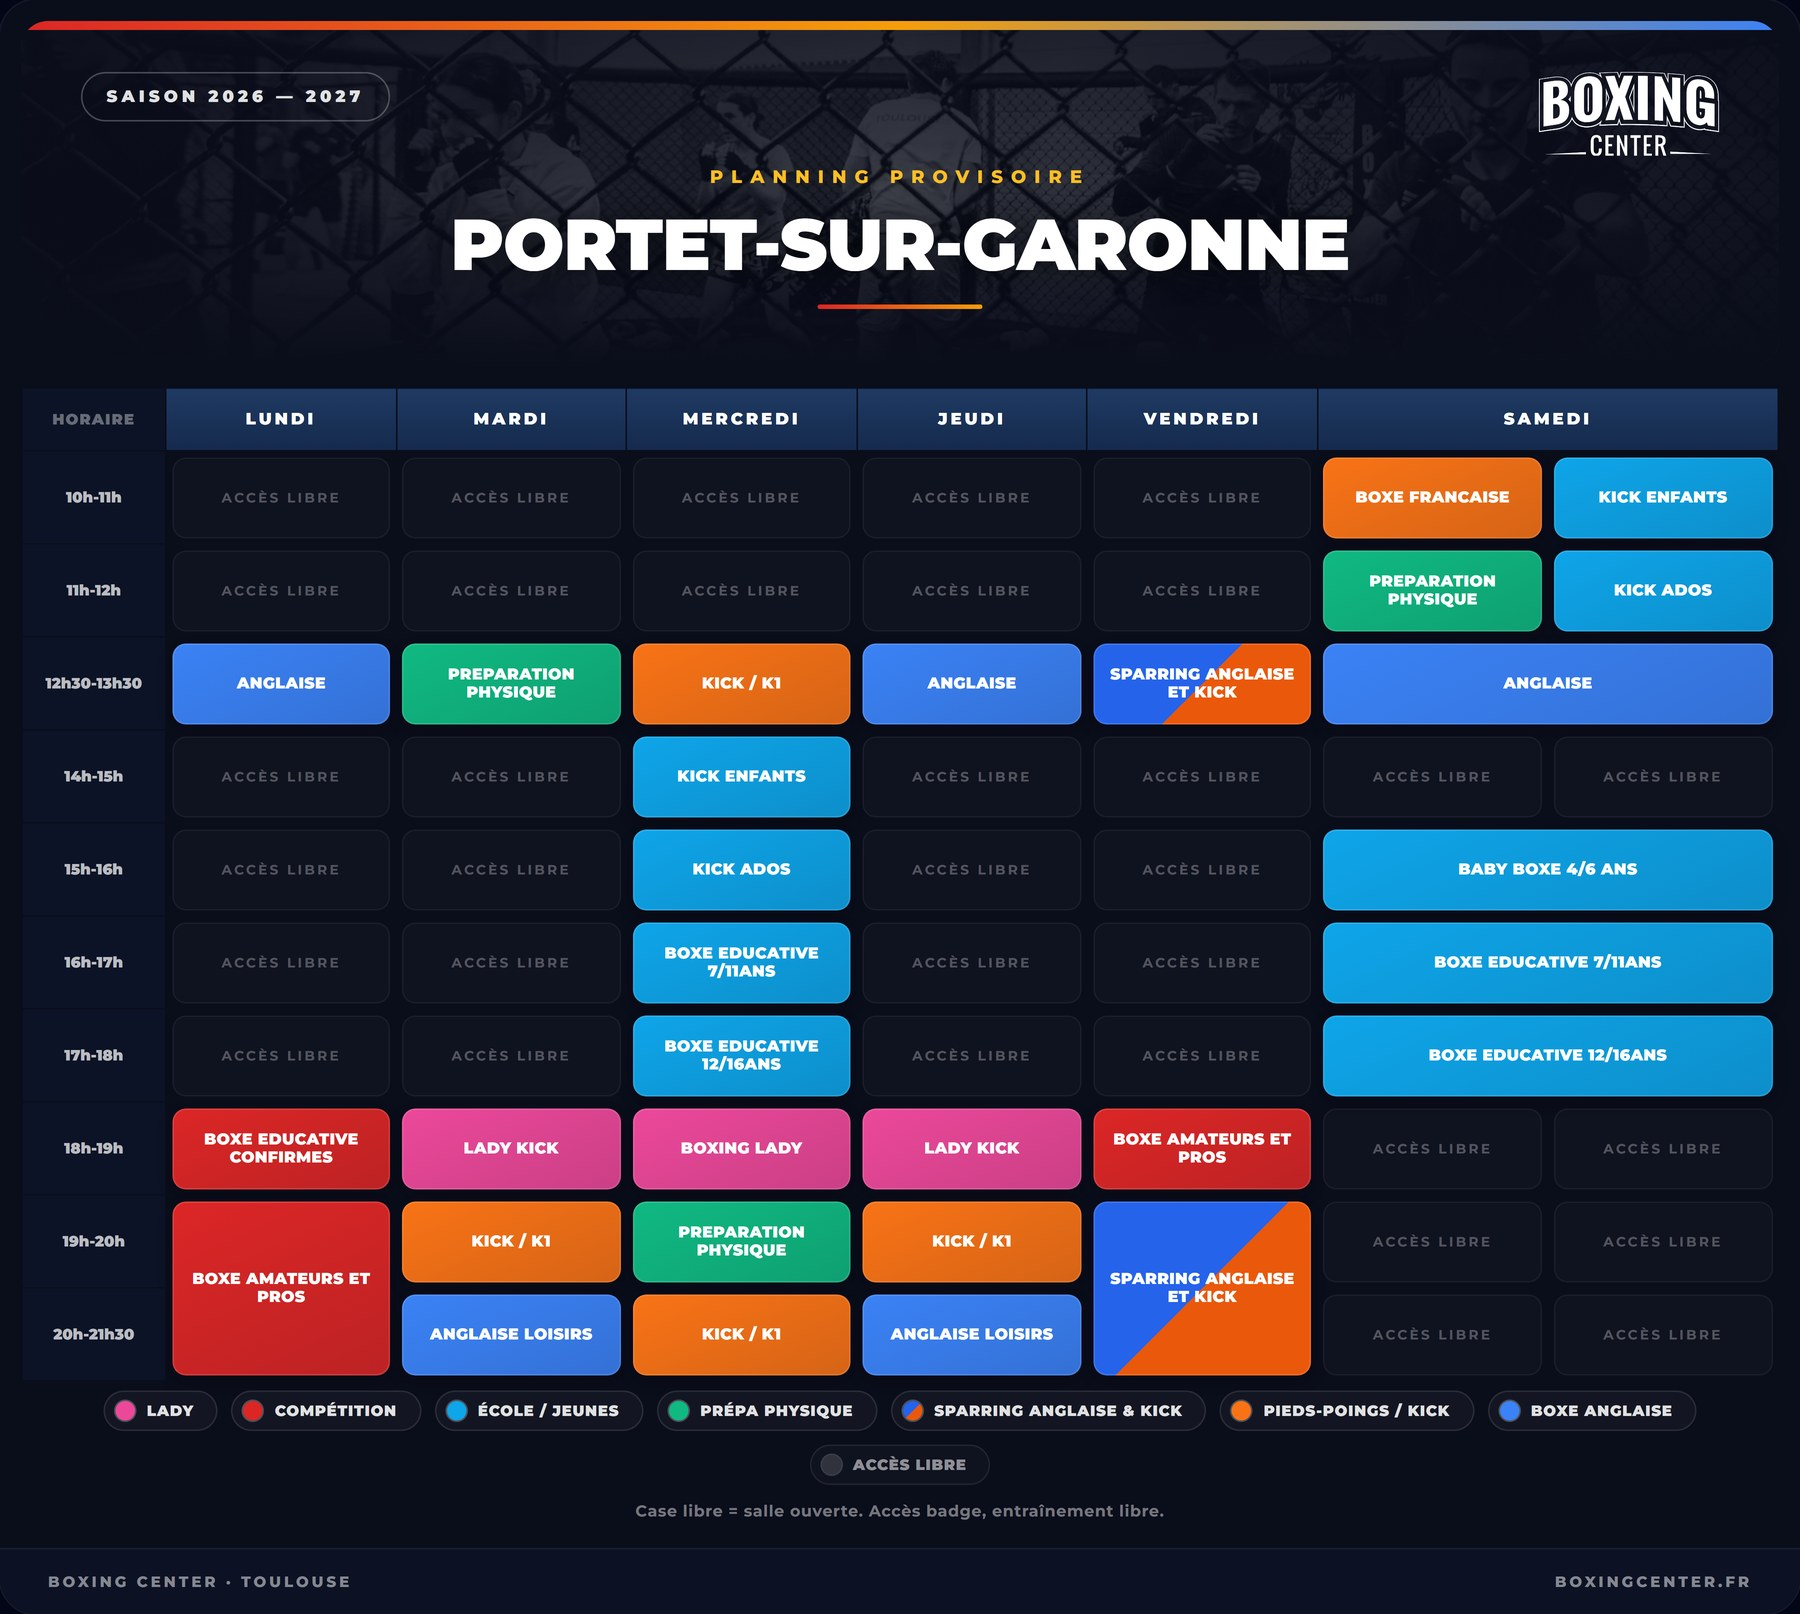
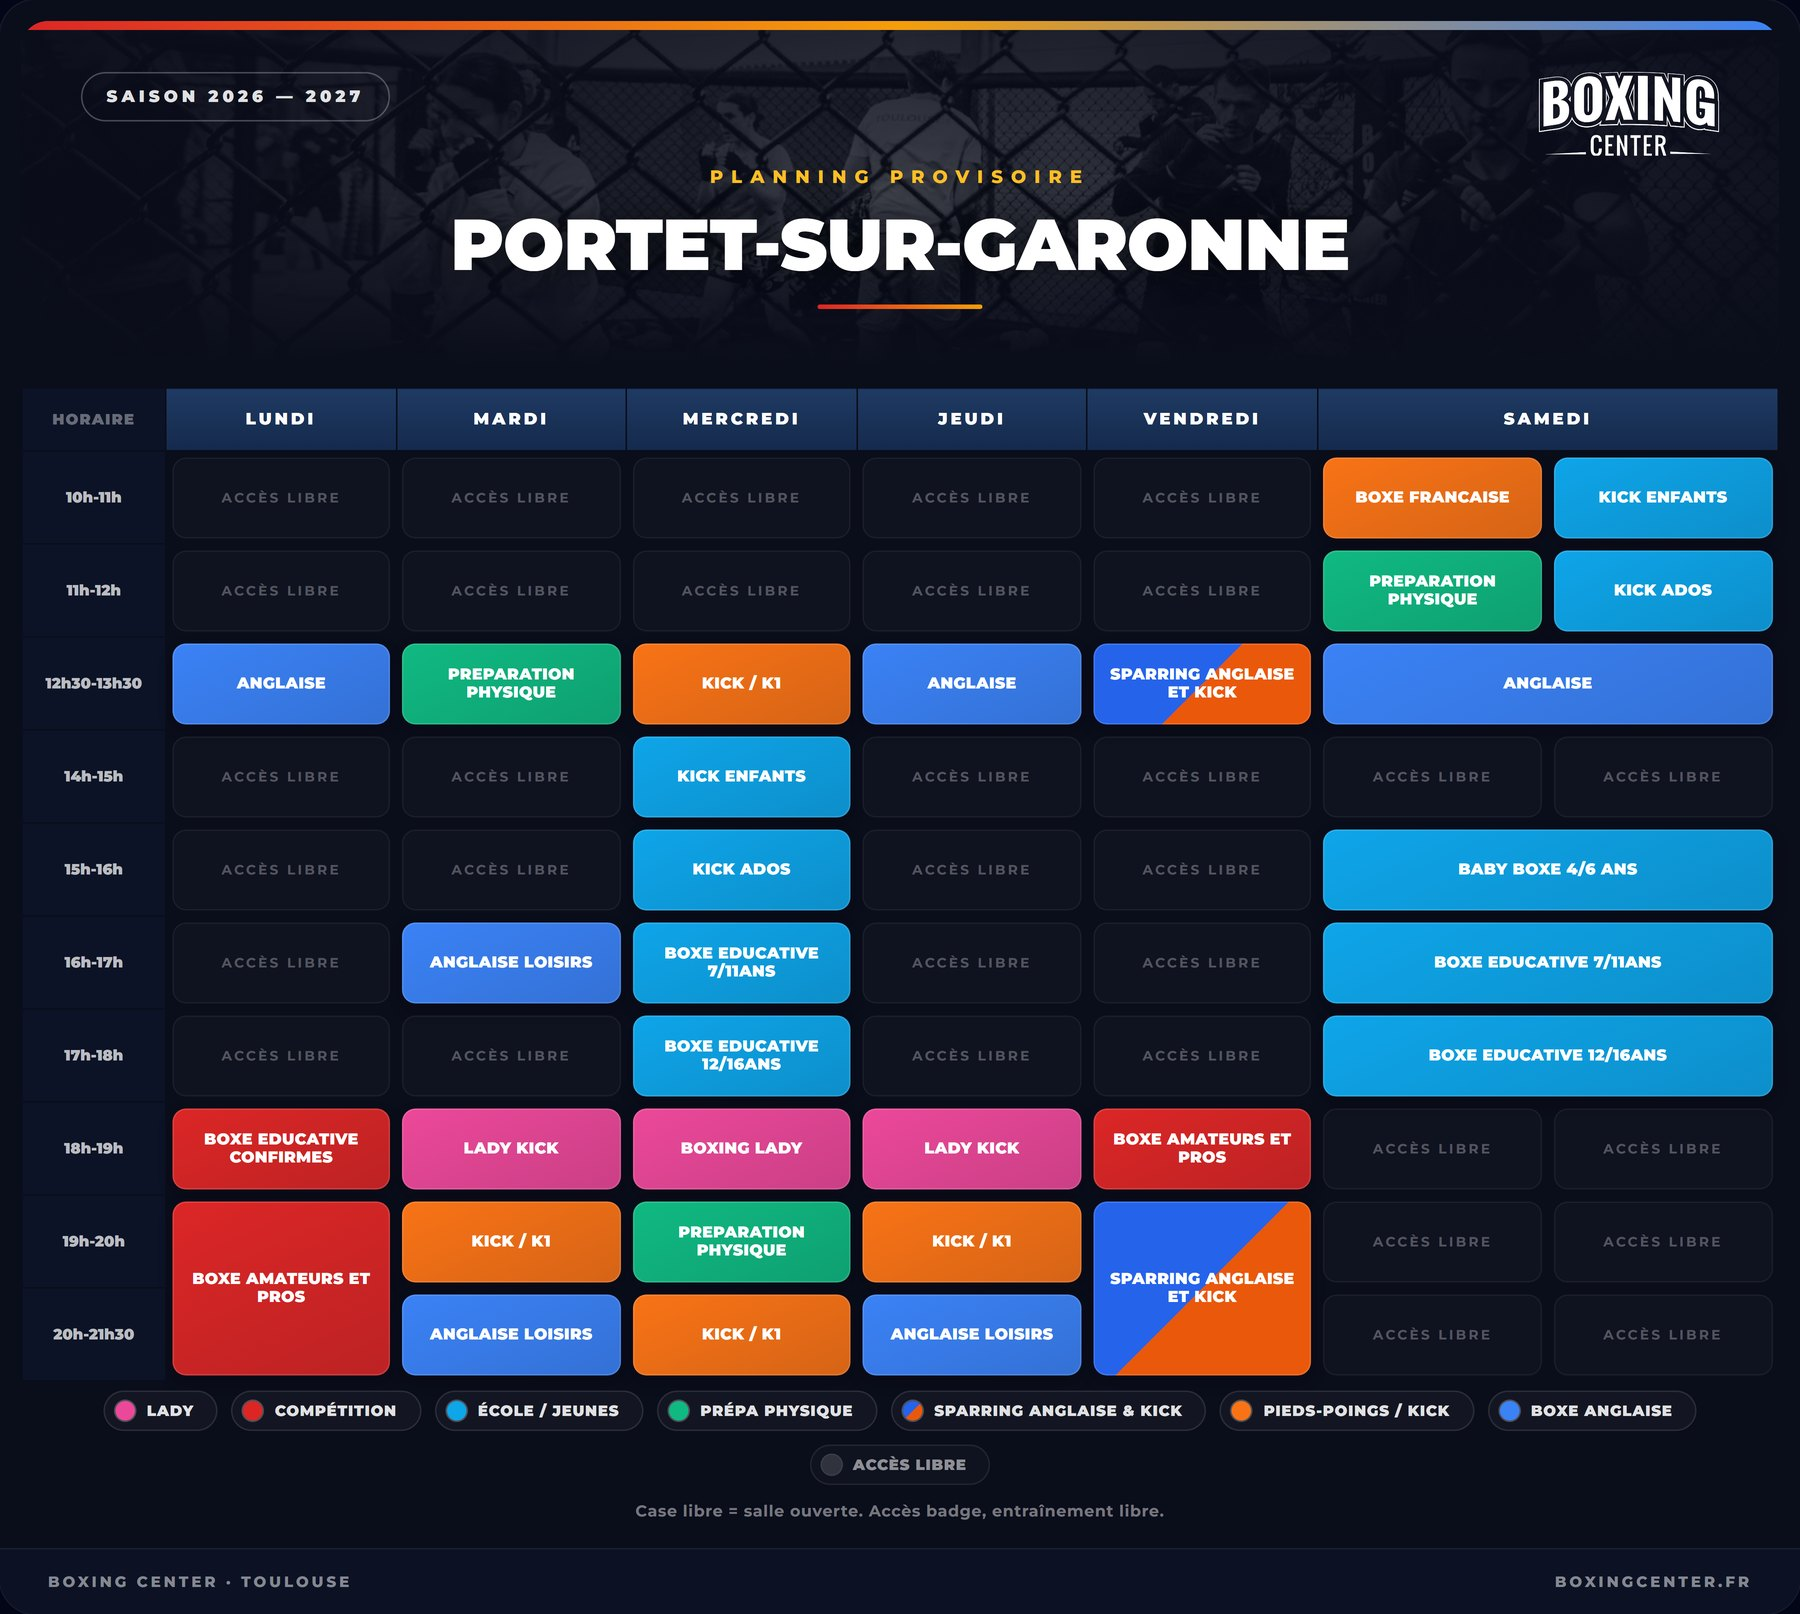
fix(portet): le planning affiche le cours du mardi 16h, et se telecharge en image
L'affiche est regeneree depuis la base des plannings. Le bouton donnait le PDF
brut colorie par coach ; il donne maintenant l'affiche elle-meme, lisible et
identique a ce qui est montre au-dessus.

Changed region(s): [[0.2178, 0.5576, 0.3733, 0.6196]]

diff --git a/plannings/index.html b/plannings/index.html
@@ -29,11 +29,13 @@
   <meta name="twitter:card" content="summary_large_image" />
   <meta name="twitter:image" content="https://boxing-center-portet.fr/og.png" />
   <link rel="image_src" href="https://boxing-center-portet.fr/og.png" />
-  <link rel="icon" type="image/png" sizes="48x48" href="https://boxing-center-portet.fr/favicon-48.png" />
-  <link rel="icon" type="image/png" sizes="96x96" href="https://boxing-center-portet.fr/favicon-96.png" />
-  <link rel="icon" type="image/png" sizes="192x192" href="https://boxing-center-portet.fr/favicon-192.png" />
-  <link rel="shortcut icon" href="https://boxing-center-portet.fr/favicon.ico" type="image/x-icon" />
-  <link rel="apple-touch-icon" href="https://boxing-center-portet.fr/apple-touch-icon.png" sizes="180x180" />
+  <link rel="icon" type="image/png" sizes="16x16" href="https://boxing-center-portet.fr/favicon-16.png?i=3" />
+  <link rel="icon" type="image/png" sizes="32x32" href="https://boxing-center-portet.fr/favicon-32.png?i=3" />
+  <link rel="icon" type="image/png" sizes="48x48" href="https://boxing-center-portet.fr/favicon-48.png?i=3" />
+  <link rel="icon" type="image/png" sizes="96x96" href="https://boxing-center-portet.fr/favicon-96.png?i=3" />
+  <link rel="icon" type="image/png" sizes="192x192" href="https://boxing-center-portet.fr/favicon-192.png?i=3" />
+  <link rel="shortcut icon" href="https://boxing-center-portet.fr/favicon.ico?i=3" type="image/x-icon" />
+  <link rel="apple-touch-icon" href="https://boxing-center-portet.fr/apple-touch-icon.png?i=3" sizes="180x180" />
   <link rel="manifest" href="/site.webmanifest" />
   <link rel="preload" href="/fonts/oswald-latin.woff2" as="font" type="font/woff2" crossorigin />
   <link rel="preload" href="/fonts/inter-latin.woff2" as="font" type="font/woff2" crossorigin />
@@ -107,7 +109,7 @@
             <img src="/img/planning/provisoire-1800.jpg" alt="Planning provisoire du Boxing Center Portet-sur-Garonne : boxe anglaise, kick, boxe éducative et préparation physique, du lundi au samedi" width="1800" height="1614" decoding="async" fetchpriority="high" />
           </picture>
         </a>
-        <figcaption>Le planning affiché en salle. Touchez l’image pour l’ouvrir en grand, ou téléchargez le PDF ci-dessous.</figcaption>
+        <figcaption>Le planning affiché en salle. Touchez l’image pour l’ouvrir en grand, ou téléchargez-la ci-dessous.</figcaption>
       </figure>
     </div>
   </section>
@@ -140,7 +142,7 @@
       <h2 class="display" style="margin-bottom:.6rem;font-size:clamp(1.6rem,3vw,2.2rem)">Le planning en vigueur</h2>
       <p class="lead" style="margin-bottom:1.4rem;max-width:60ch">Un seul planning pour toute la salle, le temps que le nouveau matériel arrive. Le double planning — salle combat et salle MMA — prendra le relais dès son installation.</p>
       <div class="planning" id="planning-provisoire-grid" data-reveal-group></div>
-      <p style="margin-top:1.6rem"><a class="btn btn--ghost" href="/img/planning-provisoire-rentree-2026.pdf" download>Télécharger le planning (PDF)</a></p>
+      <p style="margin-top:1.6rem"><a class="btn btn--ghost" href="/img/planning/provisoire-1800.jpg" download="planning-boxing-center-portet.jpg">Télécharger le planning</a></p>
     </div>
   </section>
   <!-- Les plannings définitifs (salle combat / salle MMA) attendent ici,
